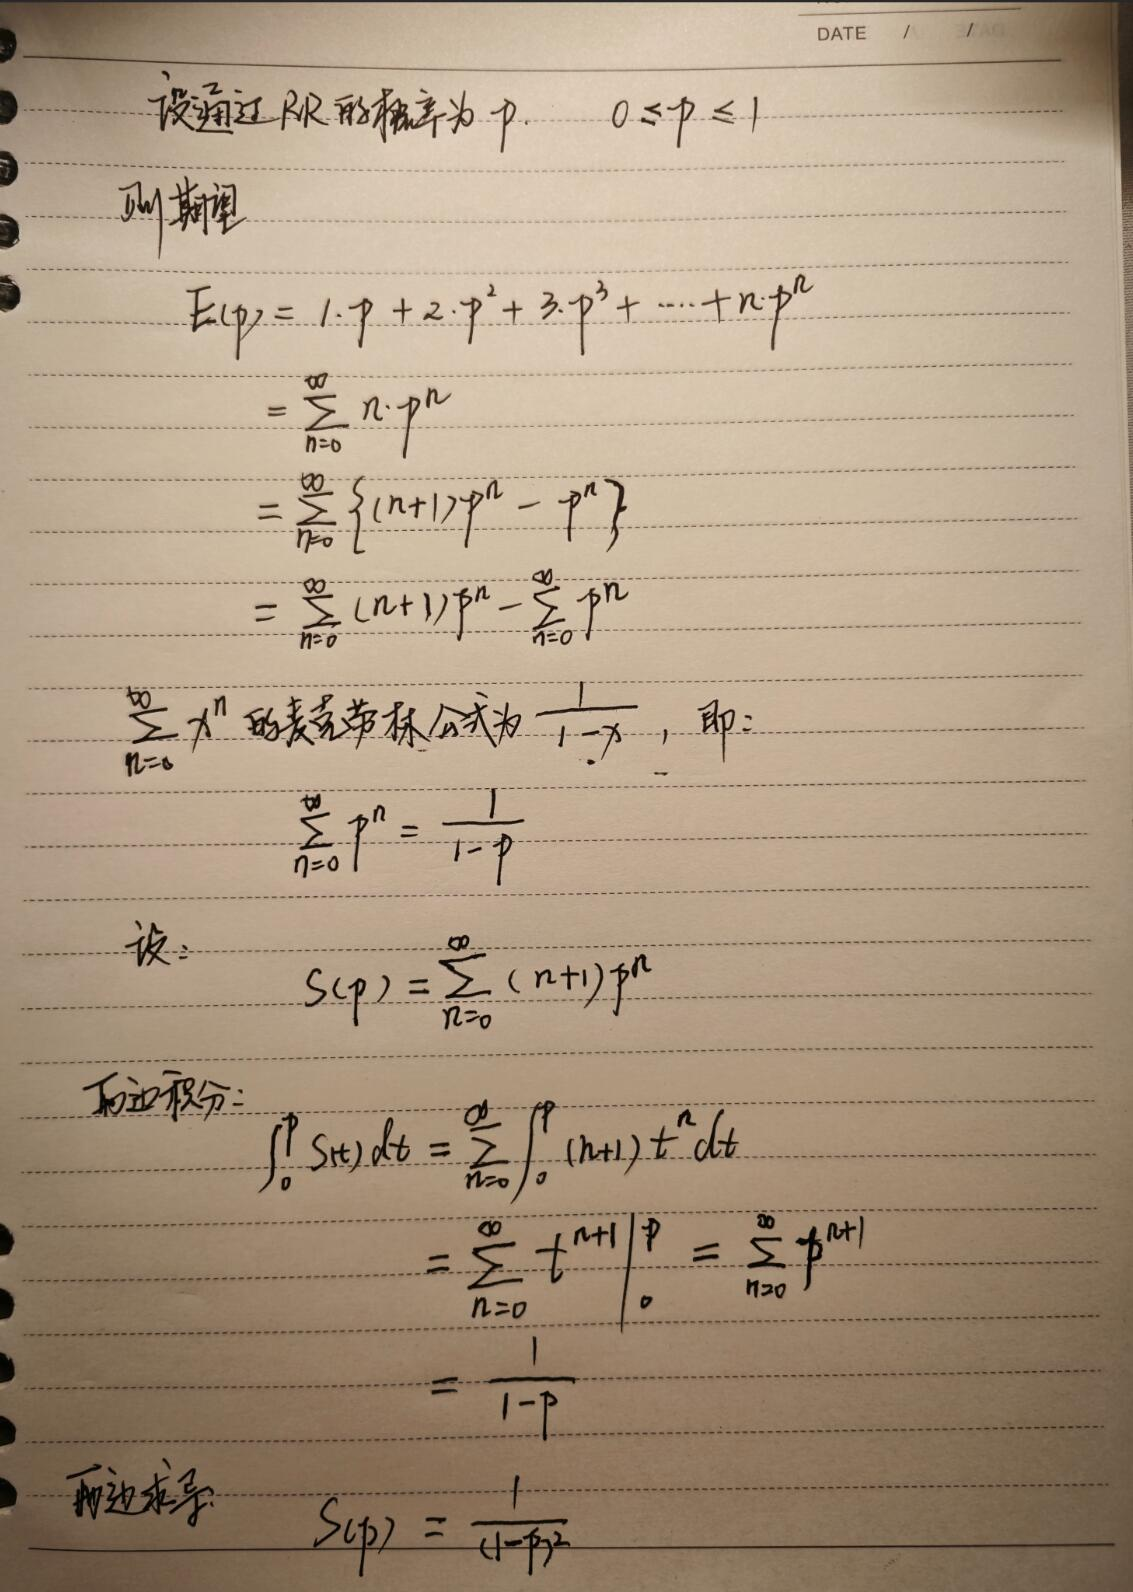
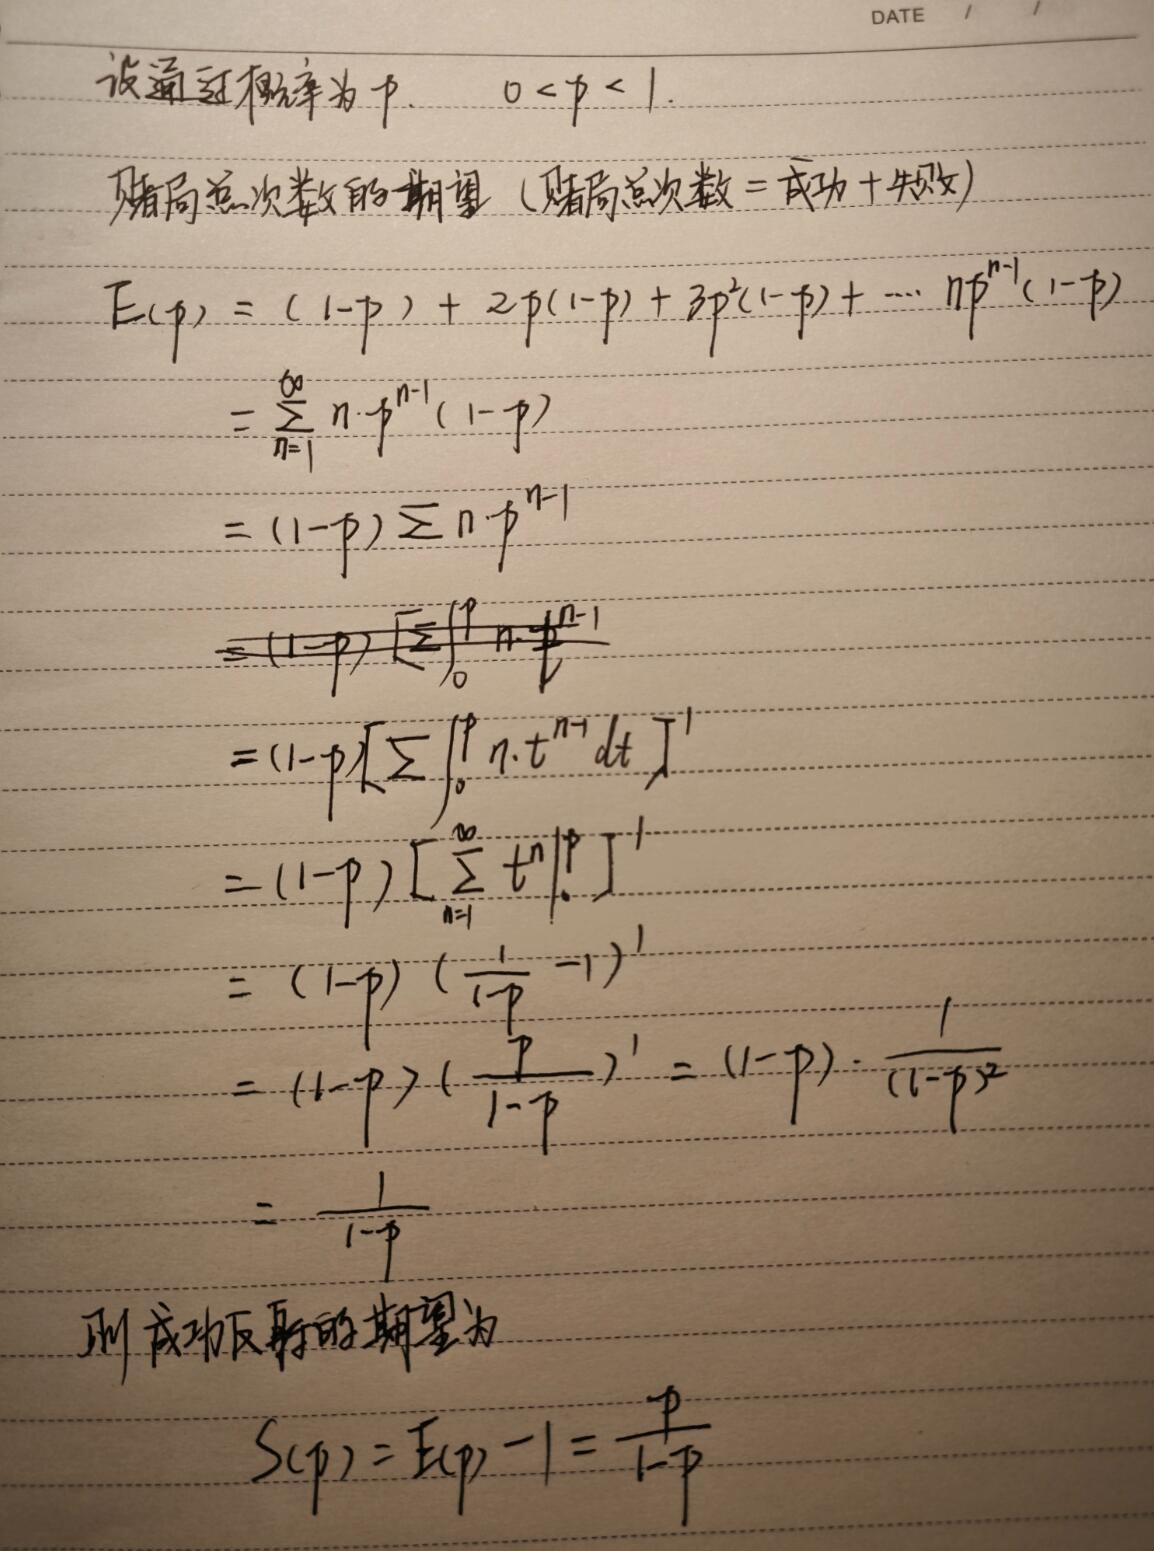
修正计算错误

diff --git a/source/_posts/expectation-of-russian-roulette-in-path-tracing.md b/source/_posts/expectation-of-russian-roulette-in-path-tracing.md
@@ -11,17 +11,52 @@ tags:
 ### 简介
 Path Tracing 的递归算法中要解决一个问题，就是光线不能无限反射，需要有一个停止的条件，一种方法就是使用俄罗斯轮盘赌，Russian Roulette (RR)，只有通过RR时才继续算反射，否则停止递归，这样即能避免无限递归，又能保证能量守恒。
 
-### 结论
-于是就引出一个问题，设RR通过概率概率是$p$，$p=0$不反射，$p=1$无限次反射，那么$0<p<1$对应多少次反射呢？也就是说得求出$p$的期望$E\left( p \right) $
-这里先给出最终答案：
+### 误区
+和群友Irimsky `讨论发现之前自己的计算是不对的，之前我认为期望就简单这么算：
+$$
+E\left( p \right) =1p+2p^2+3p^3+\cdots +np^p
+$$
+就简单反射次数乘以$p$的$n$次方，最后算出来：
 $$
 E\left( p \right) =\frac{p}{\left( 1-p \right) ^2}
 $$
-也就是说，如果$p=0.5$，那么大体上会反射2次，$p=0.8$，大体上会反射20次
+但是这是不对的，这种情况下$p=0.5$，期望是2次，$p=0.8$，是20次。
+为此我还写了段代码来数值计算：
+{% asset_img test.jpg p2 %}  
+<br/>
+<br/>
+结果显然和上面的公式不符，那么错到哪了呢？  
+错的地方就在于，之前计算的时候，没有考虑失败的情况，比如说认为反射2次的情况是$2p^2$，但是这种情况下，**第3次会不会反射是不确定的**，正确的算法应该是再乘以失败的概率来终结反射，也就是$3p^2(1-p)$
+
+### 结论
+设RR通过概率概率是$p$，$p=0$不反射，$p=1$无限次反射，$0<p<1$时期望为：
+$$
+E\left( p \right) =\frac{p}{1-p}
+$$
+
+也就是说，如果$p=0.5$，那么大体上会反射2次，$p=0.8$，大体上会反射4次  
+<br/>
+其实这里的概率就是几何分布，几何分布就是求前n-1次失败的前提下，第n次成功的概率，如果熟悉概率公式，几何分布的期望就是：
+$$
+E\left( p \right) =\frac{1}{p}
+$$
+对于我们的情况，要把成功和失败反过来，因为我们要算的是前n-1次成功，第n次失败情况，也就是说，赌局总次数的期望为：
+$$
+E\left( p \right) =\frac{1}{1-p}
+$$
+再减去最后一次的失败，那么反射次数就是：
+$$
+S\left( p \right) =E\left( p \right) -1
+\\
+=\frac{1}{1-p}-1
+\\
+=\frac{p}{1-p}
+$$
+
 
 ### 推导过程
 {% asset_img p1.jpg p1 %}  
-{% asset_img p2.jpg p2 %}  
+
 
 ### 相关资料
 Games 101
